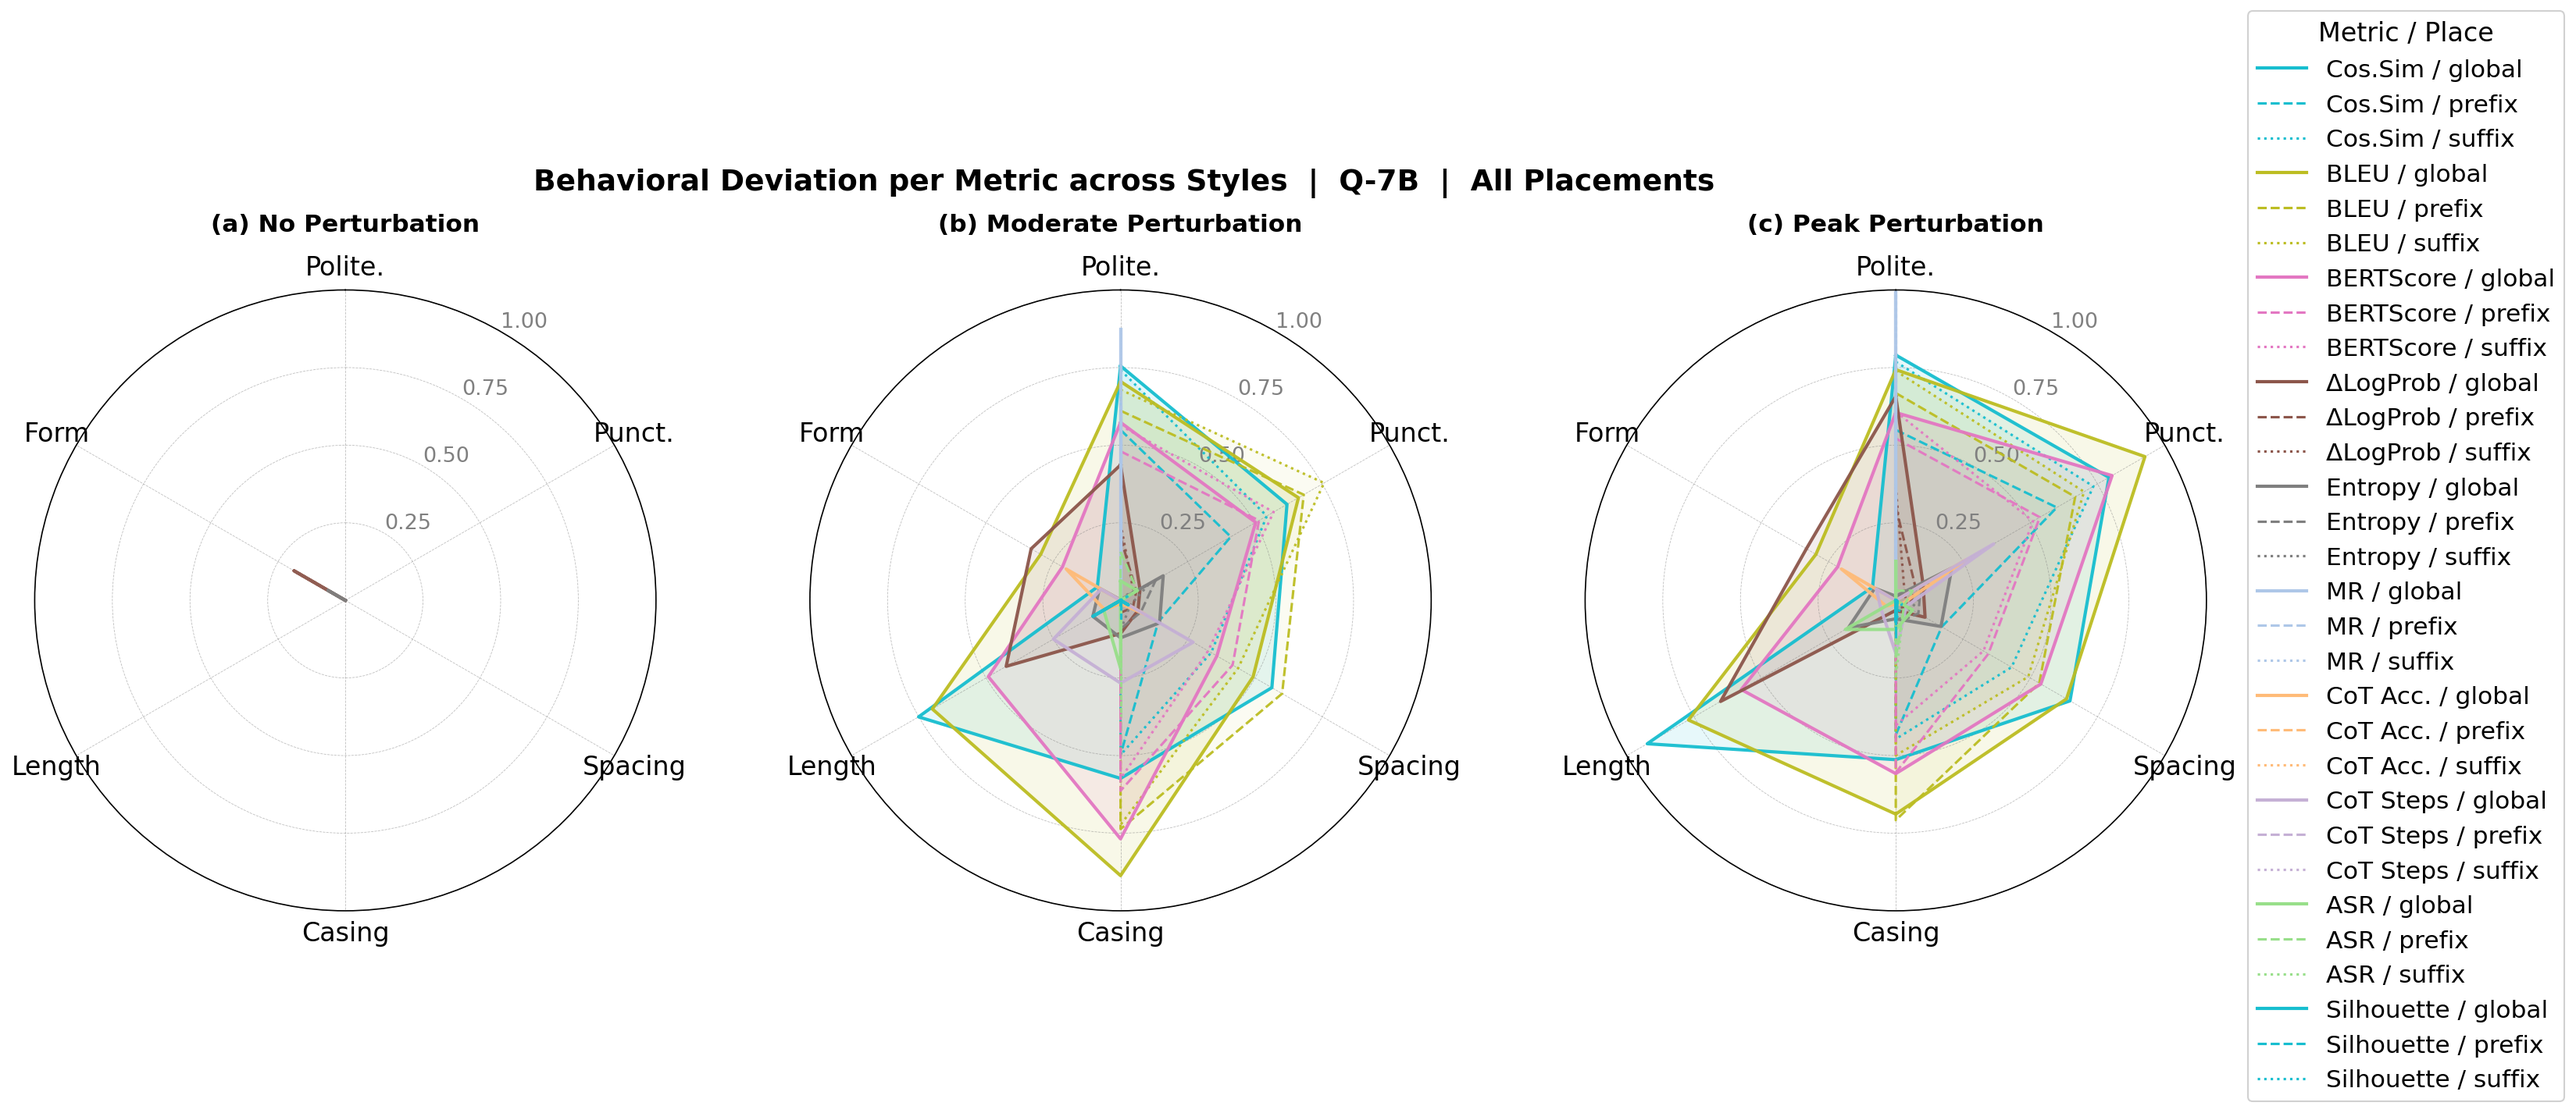
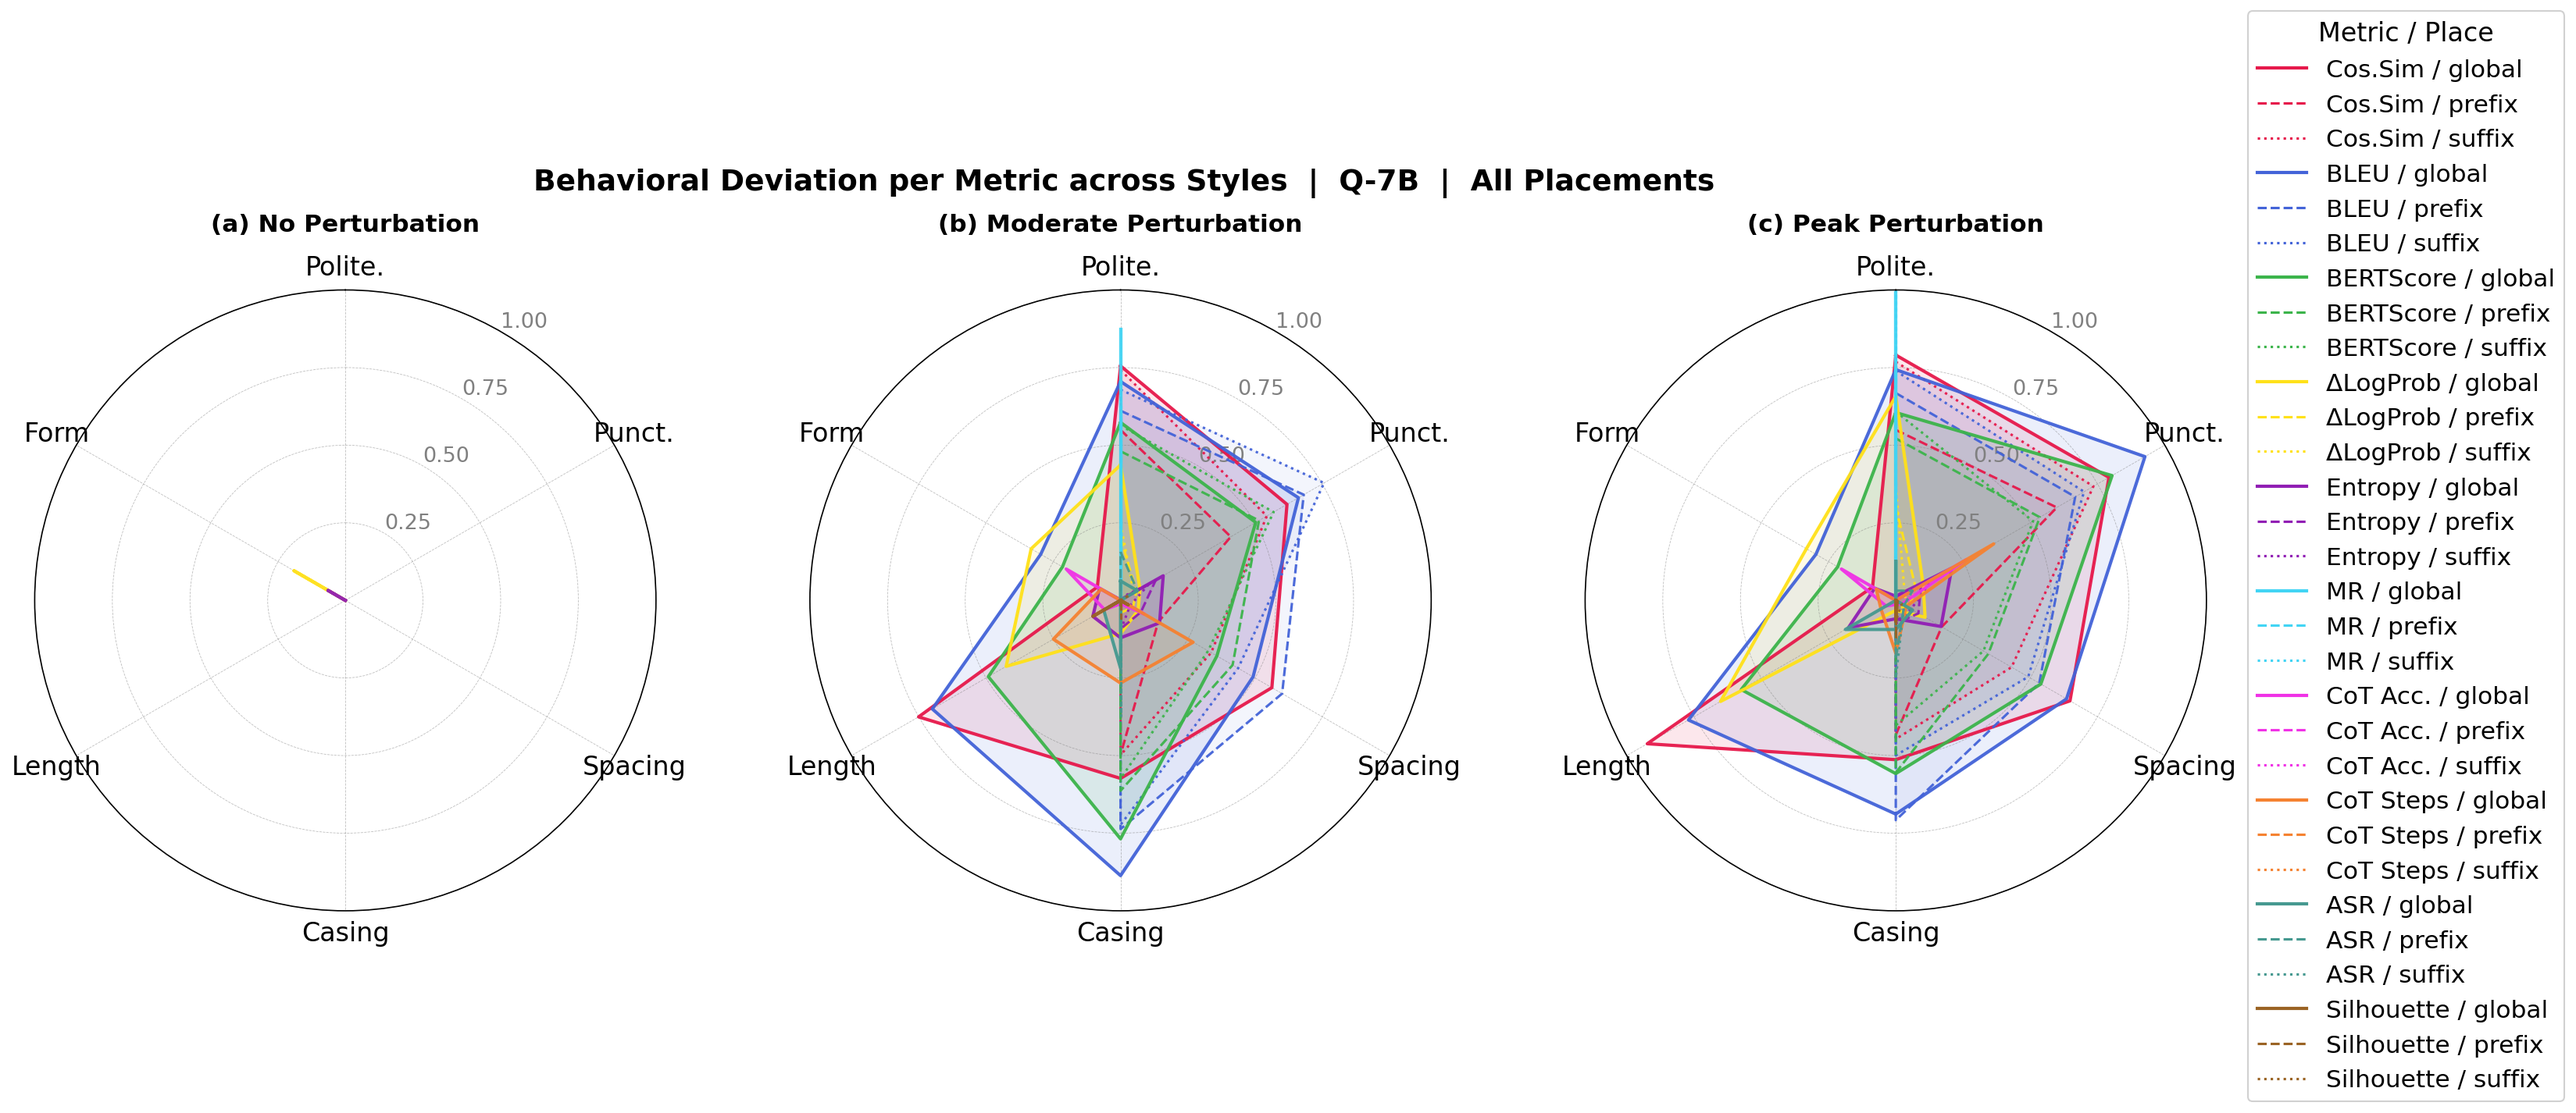
Update METRIC_COLORS in radar_plots.py for improved color palette

Changed region(s): [[0.6246, 0.3086, 0.8432, 0.7405], [0.3748, 0.3394, 0.5309, 0.7714], [0.3435, 0.6171, 0.3748, 0.648]]

diff --git a/utils/radar_plots.py b/utils/radar_plots.py
@@ -96,8 +96,16 @@ STYLE_COLORS: Dict[str, str] = {
 }
 
 METRIC_COLORS = [
-    "#17becf", "#bcbd22", "#e377c2", "#8c564b",
-    "#7f7f7f", "#aec7e8", "#ffbb78", "#c5b0d5", "#98df8a",
+    "#e6194b",  # vivid red
+    "#4363d8",  # vivid blue
+    "#3cb44b",  # vivid green
+    "#ffe119",  # vivid yellow
+    "#911eb4",  # vivid purple
+    "#42d4f4",  # vivid cyan
+    "#f032e6",  # vivid magenta
+    "#f58231",  # vivid orange
+    "#469990",  # dark teal
+    "#9a6324",  # dark gold
 ]
 
 # Styles that only apply to global placement (no prefix/suffix variant)
